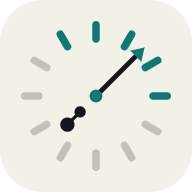
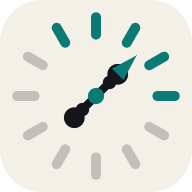
feat(brand): rebuild RepVane Dial Vane mark with a true dumbbell needle
The WIP checkpoint (25f15d5) had rasterized PNGs but no master SVG, no
simplified small-size variant, and a maskable safe zone that bled past
80%. The needle also read as a plain arrow with a weighted tail, not a
dumbbell.

- New hand-authored SVG masters (100x100 grid): logo-rv.svg (standard),
  logo-rv-maskable.svg (0.86 safe-zone scale), logo-rv-tiny.svg (bold
  simplified favicon variant for <=32px), logo-rv-mono.svg +
  android/logo-rv-android-mono.svg (transparent single-color silhouette),
  logo-rv-ondark.svg (transparent, for placement on --bg/--panel2),
  logo-rv-android-fg.svg + android-bg-color.txt (adaptive icon layers).
- Needle redesigned as a two-plate dumbbell bar (matching plate+collar
  circles at both ends) with the accent arrow tip poking past the NE
  plate, applied identically across all six variants; the tiny favicon
  variant keeps bold plate bumps so it still suggests a dumbbell at 32px.
- Rasterized the full icon set with Playwright (real browser AA):
  favicon-16/32-rv.png (+favicon-rv.ico), apple-touch-icon-rv.png (180),
  icon-192/512-rv.png, icon-maskable-192/512-rv.png, icon-mono-96-rv.png,
  android/ic-launcher-{foreground,monochrome,background}-432.png. The
  three transparent layers used a white+black double-render alpha-
  recovery pass (Pillow) since the screenshot tool has no
  omit-background option.
- Wired every reference: manifest.json icons array + background_color
[…]

diff --git a/index.html b/index.html
@@ -6,9 +6,12 @@
 <title>Athlex</title>
 
 <link rel="manifest" href="manifest.json">
-<link rel="icon" type="image/svg+xml" href="icons/logo.svg">
-<link rel="icon" type="image/png" sizes="192x192" href="icons/icon-192.png">
-<link rel="apple-touch-icon" href="icons/apple-touch-icon.png">
+<link rel="icon" type="image/svg+xml" href="icons/logo-rv.svg">
+<link rel="icon" type="image/png" sizes="32x32" href="icons/favicon-32-rv.png">
+<link rel="icon" type="image/png" sizes="16x16" href="icons/favicon-16-rv.png">
+<link rel="shortcut icon" href="icons/favicon-rv.ico">
+<link rel="apple-touch-icon" href="icons/apple-touch-icon-rv.png">
+<link rel="mask-icon" href="icons/logo-rv-mono.svg" color="#0B7A75">
 <meta name="theme-color" content="#0d1117">
 <meta name="apple-mobile-web-app-capable" content="yes">
 <meta name="apple-mobile-web-app-status-bar-style" content="black-translucent">
@@ -29,7 +32,7 @@
   <div class="ob-video-overlay" aria-hidden="true"></div>
   <div class="ob-inner">
     <div class="ob-fx" aria-hidden="true"></div>
-    <img class="ob-logo" src="icons/logo.svg" alt="" width="96" height="96">
+    <img class="ob-logo" src="icons/logo-rv.svg" alt="" width="96" height="96">
     <h1 class="ob-title" data-i18n="obTitle">Your workout, everywhere</h1>
     <p class="ob-sub" data-i18n="obSub">Plans, a rest timer, form videos and progress that follows you across devices.</p>
     <div class="ob-step-stack">
@@ -59,7 +62,7 @@
 </section>
 
 <div id="planChooser" hidden>
-  <img class="pc-logo" src="icons/logo.svg" alt="" width="78" height="78">
+  <img class="pc-logo" src="icons/logo-rv.svg" alt="" width="78" height="78">
   <div id="pcStep1">
     <h2 data-i18n="chooseTitle">Choose your plan</h2>
     <p data-i18n="chooseSub">You can switch anytime from the top of the app.</p>
@@ -101,7 +104,7 @@
 <div id="screen-plan" class="screen">
   <div class="wrap">
     <header class="hero">
-      <img class="hero-logo" src="icons/logo.svg" alt="" width="46" height="46">
+      <img class="hero-logo" src="icons/logo-rv.svg" alt="" width="46" height="46">
       <h1 id="appTitleEl">Athlex</h1>
       <div class="sub" id="todayLabel"></div>
     </header>
@@ -177,7 +180,7 @@
 <div id="screen-more" class="screen" hidden>
   <div class="wrap">
     <header class="hero">
-      <img class="hero-logo" src="icons/logo.svg" alt="" width="46" height="46">
+      <img class="hero-logo" src="icons/logo-rv.svg" alt="" width="46" height="46">
       <h1 data-i18n="navMore">More</h1>
     </header>
 

diff --git a/service-worker.js b/service-worker.js
@@ -32,14 +32,16 @@ const ASSETS = [
   "./metallic-button.js",
   "./config.js",
   "./manifest.json",
-  "./icons/logo.svg",
+  "./icons/logo-rv.svg",
   "./icons/coach.svg",
   "./icons/avatar-default.svg",
-  "./icons/icon-192.png",
-  "./icons/icon-512.png",
-  "./icons/icon-maskable-192.png",
-  "./icons/icon-maskable-512.png",
-  "./icons/apple-touch-icon.png"
+  "./icons/icon-192-rv.png",
+  "./icons/icon-512-rv.png",
+  "./icons/icon-maskable-192-rv.png",
+  "./icons/icon-maskable-512-rv.png",
+  "./icons/apple-touch-icon-rv.png",
+  "./icons/favicon-32-rv.png",
+  "./icons/favicon-16-rv.png"
 ];
 
 self.addEventListener("install", (event) => {
